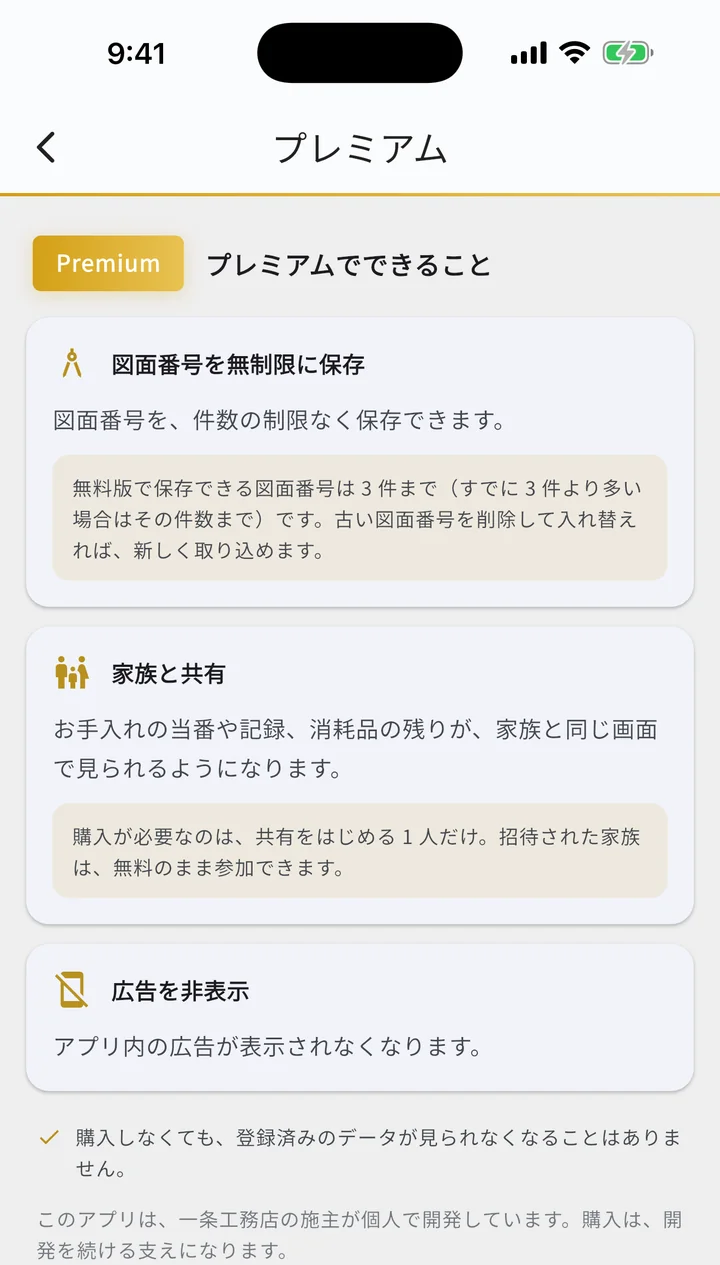
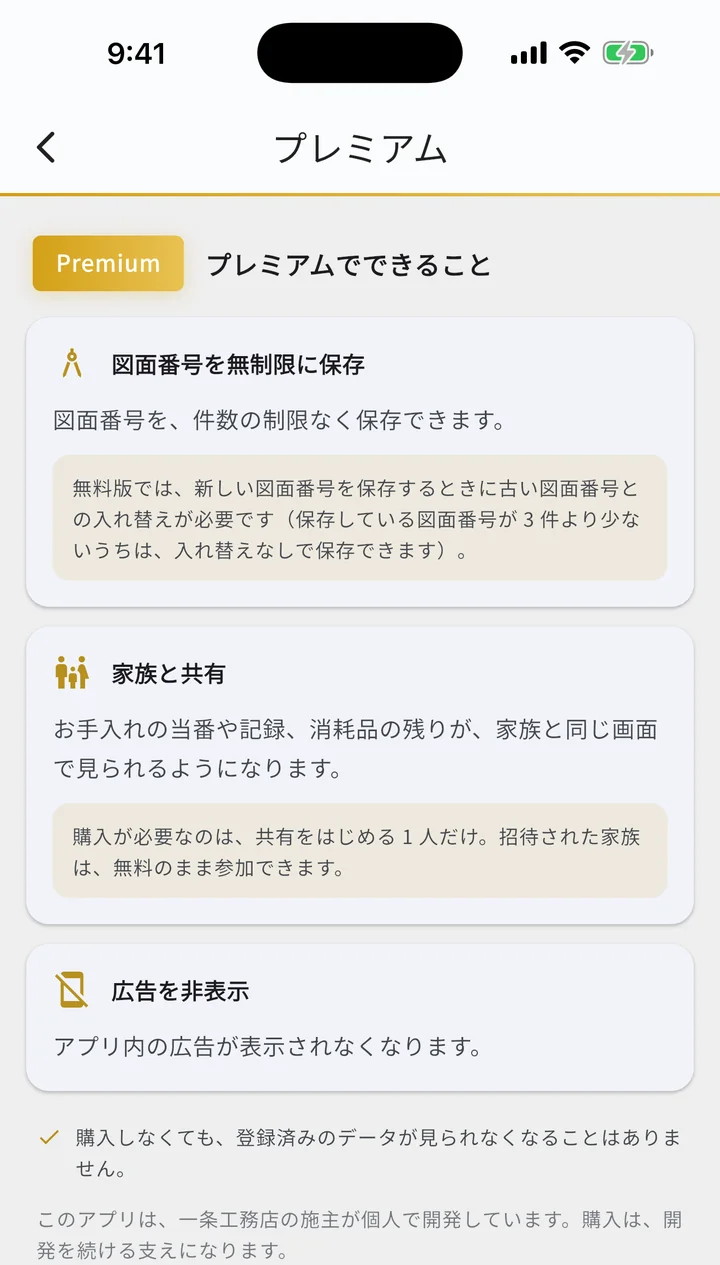
docs: プレミアムの案内ページの画面と、取り込み画面のお知らせの文を今のアプリに合わせる

Changed region(s): [[0.0917, 0.37, 0.8861, 0.4625]]

diff --git a/docs/manual.html b/docs/manual.html
@@ -1311,7 +1311,7 @@
   <li><strong>数え方</strong>：<a href="#doc-list">図面番号一覧</a>で 1 行に並ぶ単位で数えます。「2-7」と、枝番を付けた「2-7-1」は、同じ 1 件です</li>
   <li><strong>保存済みの図面番号へのファイルの追加や差し替え</strong>は、件数に関係なくできます</li>
   <li><strong>今ある図面番号</strong>：3 件より多くても、その件数のまま使い続けられます。新しい図面番号を保存するときは、同じ数だけ古い図面番号と入れ替えます</li>
-  <li><strong>10月31日まで</strong>：これまでどおり件数の制限なく取り込めます。新しい図面番号を保存する取り込みでは、ファイル一覧の先頭に、11月1日から入れ替えが必要になることのお知らせが出ます（取り込みはそのままできます）</li>
+  <li><strong>10月31日まで</strong>：これまでどおり件数の制限なく取り込めます。新しい図面番号を保存する取り込みでは、ファイル一覧の先頭に「11月1日から、無料版では図面番号の入れ替えが必要になります」のお知らせが出ます（取り込みはそのままできます）</li>
 </ul>
 
 <h4>入れ替えの画面（取り込む図面番号を選ぶ）</h4>
